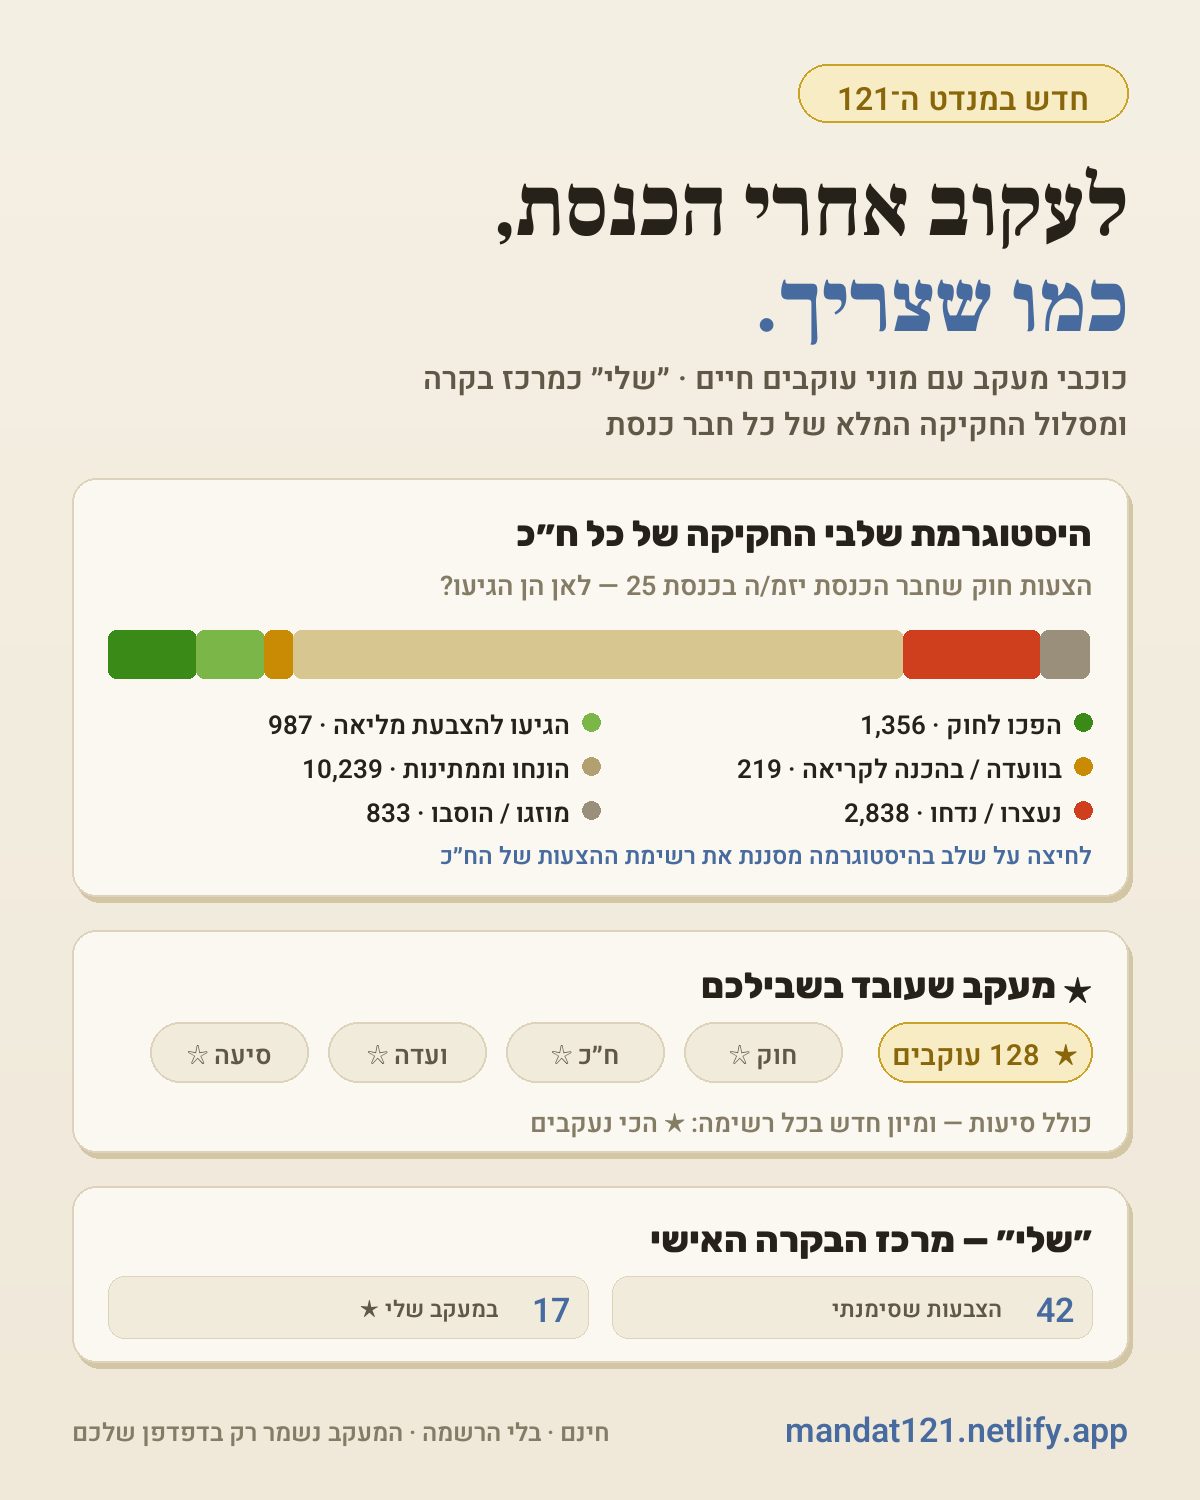
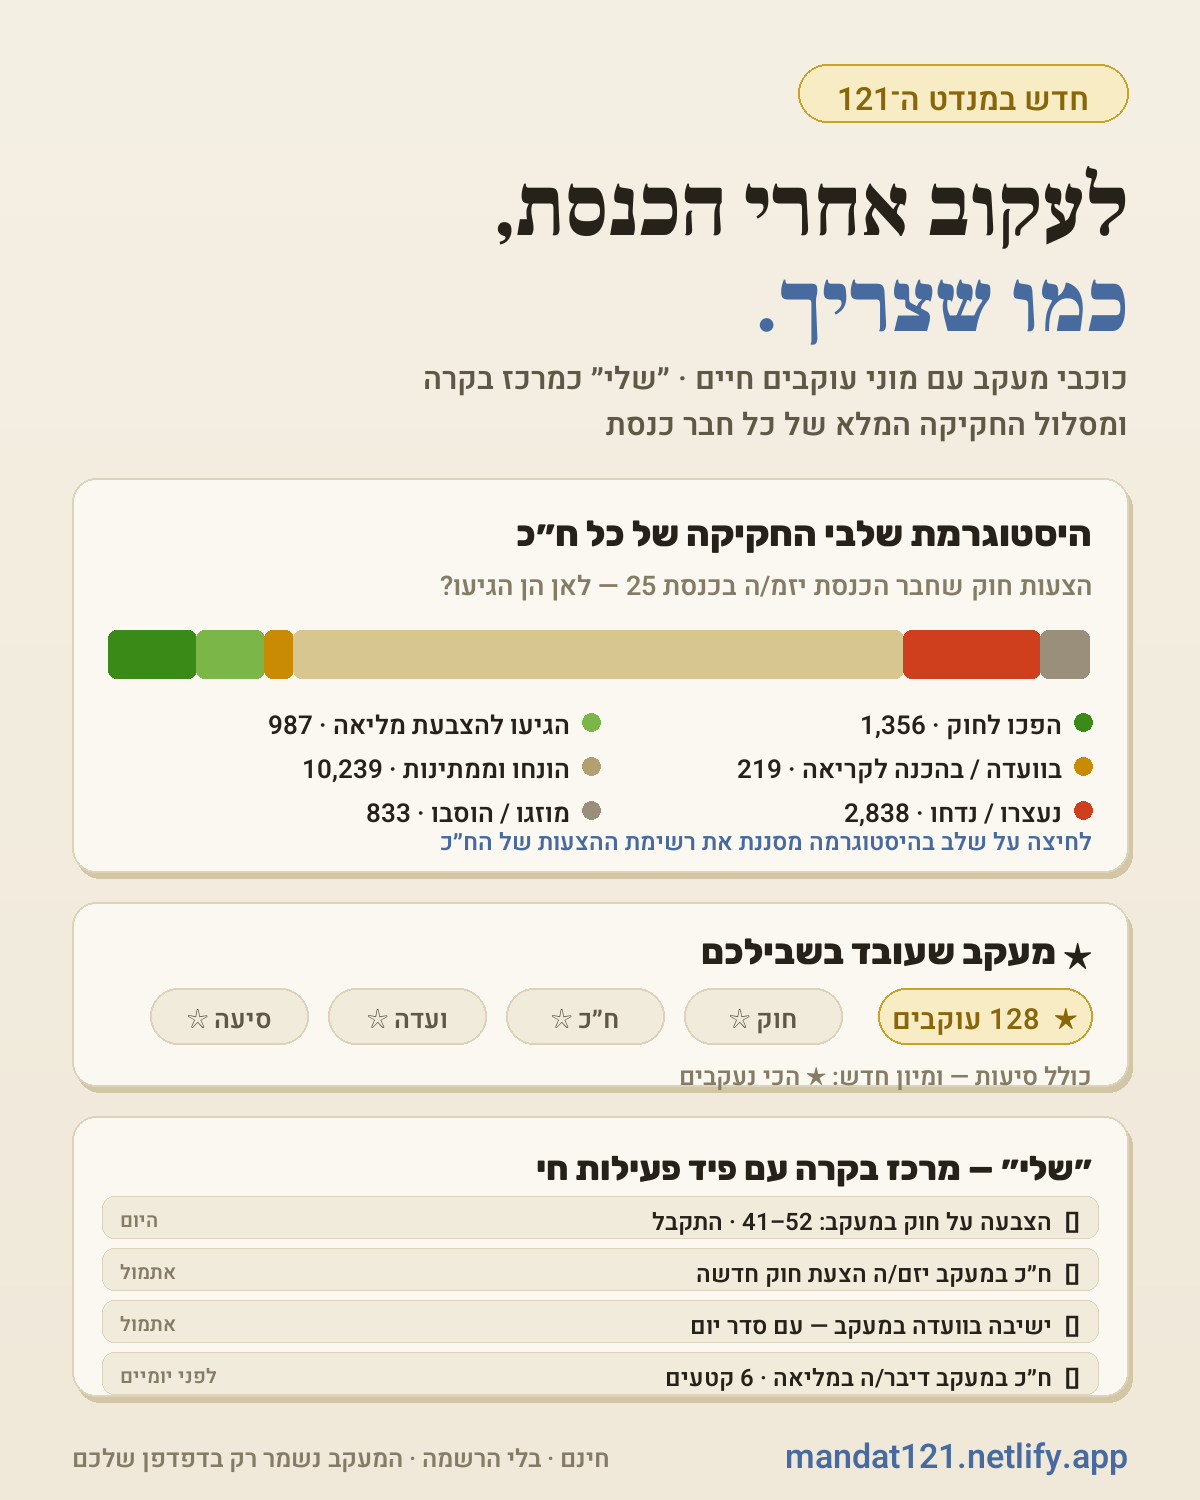
Hero: Mine card now shows the activity feed

Changed region(s): [[0.0617, 0.552, 0.9558, 0.9813]]

diff --git a/examples/make_twitter_hero.py b/examples/make_twitter_hero.py
@@ -57,7 +57,7 @@ T(R, 356, "כוכבי מעקב עם מוני עוקבים חיים · ״שלי״
 T(R, 402, "ומסלול החקיקה המלא של כל חבר כנסת", 31, MID)
 
 # --- Card 1: MK lawmaking pipeline histogram (the headline feature) ---
-card(M, 478, R, 896)
+card(M, 478, R, 872)
 T(R - 36, 512, "היסטוגרמת שלבי החקיקה של כל ח״כ", 36, TEXT, "ra", "Rubik", 800)
 T(R - 36, 566, "הצעות חוק שחבר הכנסת יזמ/ה בכנסת 25 — לאן הן הגיעו?", 27, DIM)
 segs = [(9, FOR), (7, (122, 182, 72)), (3, ABSTAIN), (62, (216, 198, 144)), (14, AGAINST), (5, (154, 143, 122))]
@@ -76,33 +76,38 @@ for i, (label, n, col) in enumerate(lines):
     d.ellipse([colx - 18, yy + 7, colx, yy + 25], fill=col)
     T(colx - 30, yy, f"{label} · {n}", 26)
     if i % 2 == 1: yy += 44
-T(R - 36, 838, "לחיצה על שלב בהיסטוגרמה מסננת את רשימת ההצעות של הח״כ", 24, ACCENT)
+T(R - 36, 824, "לחיצה על שלב בהיסטוגרמה מסננת את רשימת ההצעות של הח״כ", 24, ACCENT)
 
 # --- Card 2: stars ---
-card(M, 930, R, 1152)
-T(R - 36, 964, "★ מעקב שעובד בשבילכם", 36, TEXT, "ra", "Rubik", 800)
-rr([R - 250, 1022, R - 36, 1082], 30, fill=(247, 236, 196), outline=GOLD, w=2)
-T(R - 143, 1034, "★  128 עוקבים", 29, GOLD_TX, "ma")
+card(M, 902, R, 1086)
+T(R - 36, 930, "★ מעקב שעובד בשבילכם", 36, TEXT, "ra", "Rubik", 800)
+rr([R - 250, 988, R - 36, 1044], 30, fill=(247, 236, 196), outline=GOLD, w=2)
+T(R - 143, 998, "★  128 עוקבים", 29, GOLD_TX, "ma")
 for i, lbl in enumerate(["חוק ☆", "ח״כ ☆", "ועדה ☆", "סיעה ☆"]):
     xx = R - 286 - i * 178
-    rr([xx - 158, 1022, xx, 1082], 30, fill=SURF2, outline=LINE, w=2)
-    T(xx - 79, 1036, lbl, 26, MID, "ma")
-T(R - 36, 1104, "כולל סיעות — ומיון חדש בכל רשימה: ★ הכי נעקבים", 26, DIM)
+    rr([xx - 158, 988, xx, 1044], 30, fill=SURF2, outline=LINE, w=2)
+    T(xx - 79, 1000, lbl, 26, MID, "ma")
+T(R - 36, 1058, "כולל סיעות — ומיון חדש: ★ הכי נעקבים", 25, DIM)
 
-# --- Card 3: command center tiles ---
-card(M, 1186, R, 1362)
-T(R - 36, 1218, "״שלי״ — מרכז הבקרה האישי", 36, TEXT, "ra", "Rubik", 800)
-tiles = [("42", "הצבעות שסימנתי"), ("17", "במעקב שלי ★"), ("87%", "הכי כמוני"), ("12", "עכשיו באתר")]
-tw = (bw - 24) // 2
-for i, (n, lbl) in enumerate(tiles[:2]):
-    tx = R - 36 - i * (tw + 24)
-    rr([tx - tw, 1276, tx, 1338], 16, fill=SURF2, outline=LINE, w=1)
-    T(tx - 18, 1286, n, 34, ACCENT)
-    T(tx - 90, 1292, lbl, 23, MID)
+# --- Card 3: Mine activity feed ---
+card(M, 1116, R, 1396)
+T(R - 36, 1148, "״שלי״ — מרכז בקרה עם פיד פעילות חי", 34, TEXT, "ra", "Rubik", 800)
+feed = [
+    ("●", "הצבעה על חוק במעקב: 52–41 · התקבל", "היום"),
+    ("●", "ח״כ במעקב יזם/ה הצעת חוק חדשה", "אתמול"),
+    ("●", "ישיבה בוועדה במעקב — עם סדר יום", "אתמול"),
+    ("●", "ח״כ במעקב דיבר/ה במליאה · 6 קטעים", "לפני יומיים"),
+]
+yy = 1196
+for icon, txt, when in feed:
+    rr([M + 30, yy, R - 30, yy + 42], 12, fill=SURF2, outline=LINE, w=1)
+    T(R - 48, yy + 8, icon + "  " + txt, 24, TEXT)
+    T(M + 48, yy + 10, when, 20, DIM, "la")
+    yy += 52
 
 # footer
-T(R, 1406, "mandat121.netlify.app", 34, ACCENT)
-T(M, 1414, "חינם · בלי הרשמה · המעקב נשמר רק בדפדפן שלכם", 25, DIM, "la")
+T(R, 1432, "mandat121.netlify.app", 34, ACCENT)
+T(M, 1440, "חינם · בלי הרשמה · המעקב נשמר רק בדפדפן שלכם", 25, DIM, "la")
 
 img.save("/Users/harel/Developer/biapia/examples/twitter-hero.png")
 print("saved")
